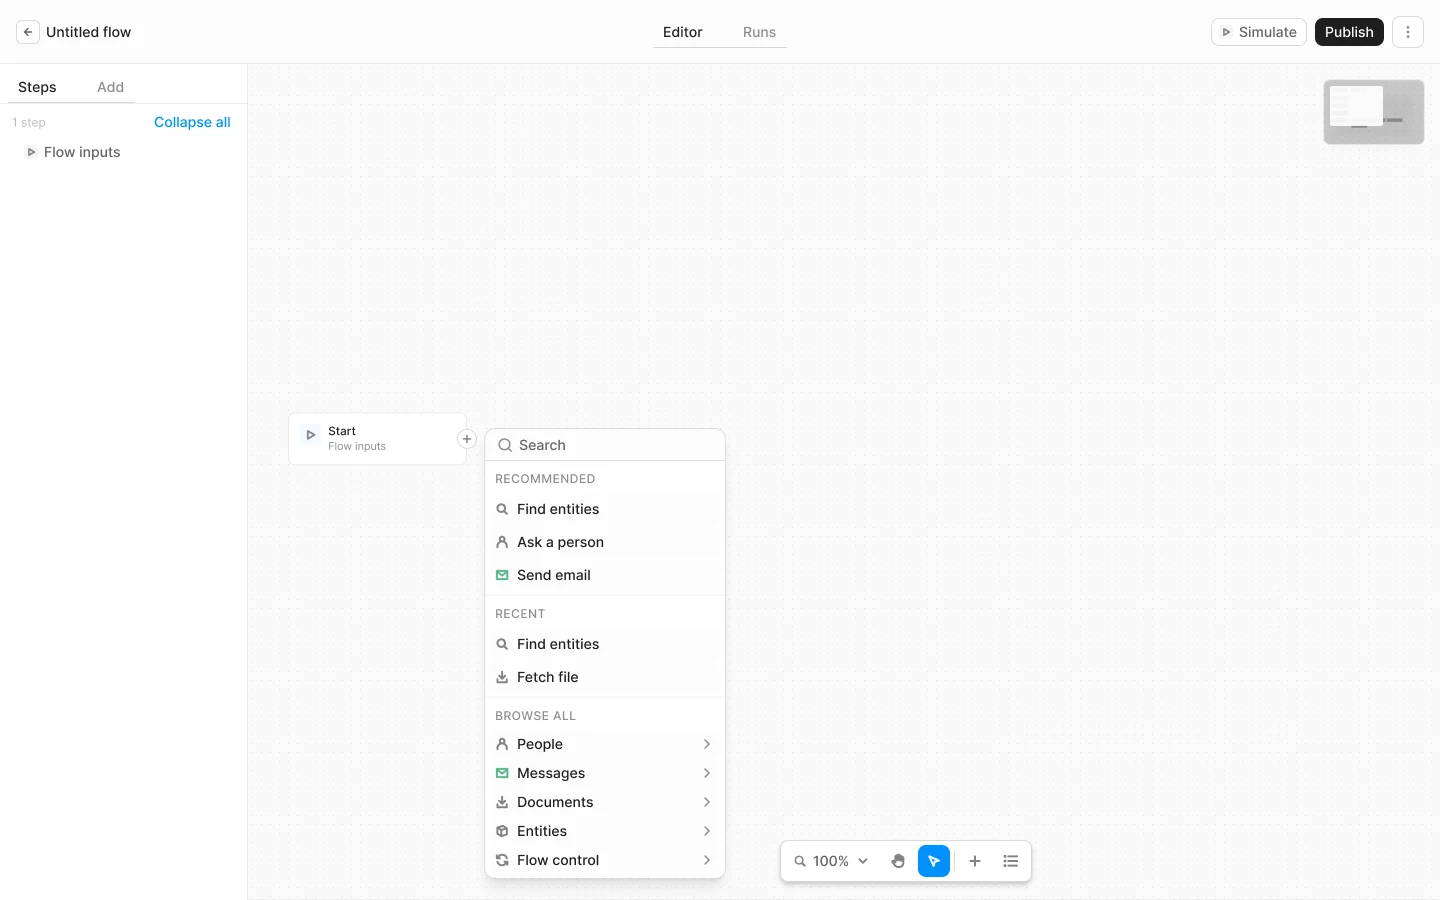
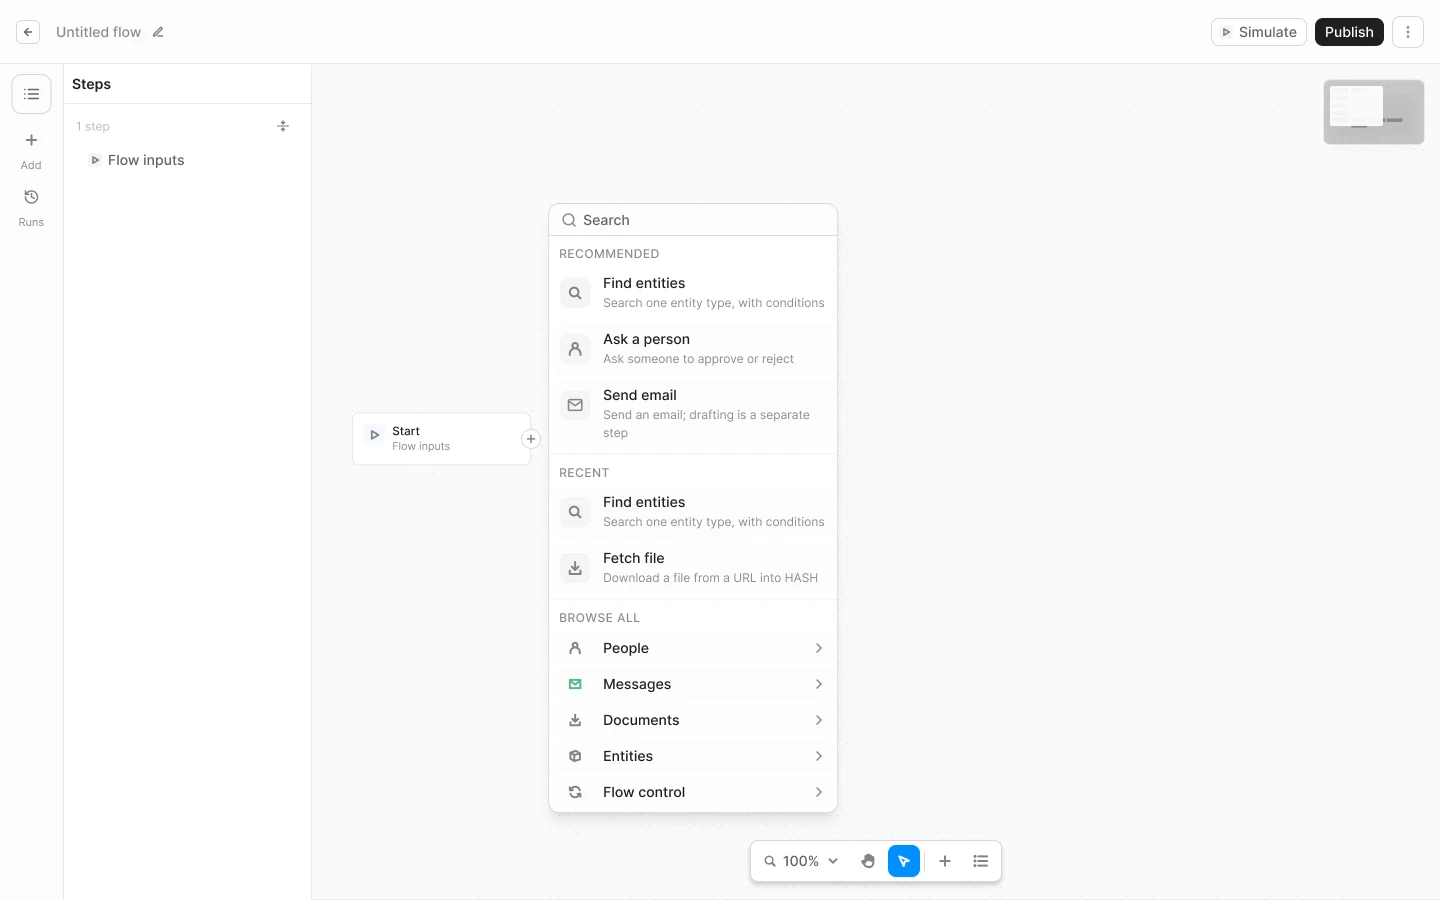
Flows editor: menu tiles hang from the title; J1.4 shifted; quiet empty menu
- A two-line menu row's tile now runs from the title's cap height to the
  description's baseline, centred in a 32 px column: 28 px, 1 px down,
  in value menus; 30 px, 2 px down, for add-step rows (14 px title and
  18 px description lines).
- J1.4's canvas starts 24 px further left, so its cards clear the panel.
- With nothing earlier that fits, a source menu's Earlier steps group
  shows only "Add <kind> input on Start", with no line saying why
  (J2.21). The For each list keeps its line, having no such action.
- Re-exports J0.6, J0.10, J0.11, J1.4, J1.7, J1.9, J1.15, J2.13, J2.16,
  J2.21, J2.31, J2.35, J2.44 and J2.46 (J1.16 was unchanged).

diff --git a/libs/@hashintel/petrinaut/flows-editor-prototype/src/menu-rows.tsx b/libs/@hashintel/petrinaut/flows-editor-prototype/src/menu-rows.tsx
@@ -6,7 +6,7 @@
  * The rows stay DS Menu items (keyboard, submenus, highlight) and carry this content as their `text`.
  */
 import { Icon, type IconName, type ItemOrGroup, type MenuItem } from "@hashintel/ds-components";
-import { css } from "@hashintel/ds-helpers/css";
+import { css, cva } from "@hashintel/ds-helpers/css";
 
 /** A row with a second line: 8 px above and below, 6 px in; a one-line row: 6 px all round; 4 px between rows. */
 export const tiledRowsStyle = css({
@@ -40,6 +40,8 @@ const rowStyle = css({
   gap: "3",
   minWidth: "[0]",
   width: "[100%]",
+  // A two-line row hangs from the top: the tile starts at the title's cap height, as Figma draws it (3 Nov).
+  "&[data-menu-row=two]": { alignItems: "flex-start" },
 });
 
 /** The 32 px slot of a one-line row: the 14 px icon centred, or nothing (Any). */
@@ -54,18 +56,35 @@ const slotStyle = css({
   "& svg": { width: "[14px]", height: "[14px]", "--icon-size": "14px" },
 });
 
-/** The 32 px tile: 8 px corners, the step-tile grey, a 16 px icon. */
-const tileStyle = css({
-  display: "inline-flex",
-  alignItems: "center",
+/** A two-line row's 32 px column, so its text lines up with the one-line rows; the tile is centred in it. */
+const tileColumnStyle = css({
+  display: "flex",
   justifyContent: "center",
   flexShrink: 0,
   width: "[32px]",
-  height: "[32px]",
-  borderRadius: "lg",
-  backgroundColor: "neutral.a25",
-  color: "neutral.fg.muted",
-  "& svg": { width: "[16px]", height: "[16px]", "--icon-size": "16px" },
+});
+
+/**
+ * The tile runs from the title's cap height to the description's baseline (Figma, 3 Nov): 28 px, 1 px down, in a
+ * value menu (12 px title line, 16 px description line); 30 px, 2 px down, for a step (14 px and 18 px lines).
+ * 8 px corners, the step-tile grey, a 16 px icon.
+ */
+const tileStyle = cva({
+  base: {
+    display: "inline-flex",
+    alignItems: "center",
+    justifyContent: "center",
+    borderRadius: "lg",
+    backgroundColor: "neutral.a25",
+    color: "neutral.fg.muted",
+    "& svg": { width: "[16px]", height: "[16px]", "--icon-size": "16px" },
+  },
+  variants: {
+    lines: {
+      value: { width: "[28px]", height: "[28px]", marginTop: "[1px]" },
+      step: { width: "[30px]", height: "[30px]", marginTop: "[2px]" },
+    },
+  },
 });
 
 const textStyle = css({
@@ -88,48 +107,73 @@ const titleStyle = css({
   color: "neutral.fg.heading",
 });
 
-/** In a two-line row Figma sets the title on a 12 px line, so title, 4 px and description fill the 32 px tile. */
-const twoLineTitleStyle = css({
-  ...ellipsis,
-  textStyle: "sm",
-  lineHeight: "[12px]",
-  paddingY: "[1px]",
-  marginY: "[-1px]",
-  color: "neutral.fg.heading",
+/** A two-line row's title: a 12 px line in a value menu (with 1 px of room for the glyphs), 14 px for a step. */
+const twoLineTitleStyle = cva({
+  base: {
+    ...ellipsis,
+    textStyle: "sm",
+    color: "neutral.fg.heading",
+  },
+  variants: {
+    lines: {
+      value: { lineHeight: "[12px]", paddingY: "[1px]", marginY: "[-1px]" },
+      step: { lineHeight: "[14px]" },
+    },
+  },
 });
 
-/** A long line wraps, as Figma draws Send email's (J0.10); the tile stays centred on the row. */
-const descriptionStyle = css({
-  whiteSpace: "normal",
-  textStyle: "xs",
-  lineHeight: "[16px]",
-  // Figma sets the line with no tracking; the DS xs style's 0.12 px clips the longest step line.
-  letterSpacing: "[0]",
-  fontWeight: "normal",
-  color: "neutral.fg.subtle",
+/** A long line wraps, as Figma draws Send email's (J0.10); the tile stays at the top. */
+const descriptionStyle = cva({
+  base: {
+    whiteSpace: "normal",
+    textStyle: "xs",
+    // Figma sets the line with no tracking; the DS xs style's 0.12 px clips the longest step line.
+    letterSpacing: "[0]",
+    fontWeight: "normal",
+    color: "neutral.fg.subtle",
+  },
+  variants: {
+    lines: {
+      value: { lineHeight: "[16px]" },
+      step: { lineHeight: "[18px]" },
+    },
+  },
 });
+
+/** How a two-line row sets its lines: a value menu's (12 / 16 px) or a step picker's (14 / 18 px). */
+export type RowLines = "value" | "step";
 
 export const MenuRow = ({
   icon,
   title,
   description,
+  lines = "value",
 }: {
   icon?: IconName | React.ReactElement;
   title: React.ReactNode;
   description?: React.ReactNode;
+  lines?: RowLines;
 }) => {
   const twoLine = description !== undefined && description !== null && description !== "";
   const glyph = typeof icon === "string" ? <Icon name={icon} size="sm" /> : icon;
   return (
     <span className={rowStyle} data-menu-row={twoLine ? "two" : "one"}>
-      <span className={twoLine ? tileStyle : slotStyle} aria-hidden="true">
-        {glyph}
-      </span>
+      {twoLine ? (
+        <span className={tileColumnStyle} aria-hidden="true">
+          <span className={tileStyle({ lines })}>{glyph}</span>
+        </span>
+      ) : (
+        <span className={slotStyle} aria-hidden="true">
+          {glyph}
+        </span>
+      )}
       <span className={textStyle}>
-        <span className={twoLine ? twoLineTitleStyle : titleStyle}>
+        <span className={twoLine ? twoLineTitleStyle({ lines }) : titleStyle}>
           {title}
         </span>
-        {twoLine ? <span className={descriptionStyle}>{description}</span> : null}
+        {twoLine ? (
+          <span className={descriptionStyle({ lines })}>{description}</span>
+        ) : null}
       </span>
     </span>
   );
@@ -152,13 +196,19 @@ const hasDescription = (item: MenuItem) =>
  */
 export const tileMenu = (
   entries: Array<ItemOrGroup<TiledItem>>,
+  lines: RowLines = "value",
 ): Array<ItemOrGroup<MenuItem>> => {
   const rows = entries.flatMap((entry) => (isGroup(entry) ? entry.items : [entry]));
   const tiled = rows.some(hasDescription);
   const convert = (item: TiledItem): MenuItem => {
     const { glyph, ...rest } = item;
     const subItems = rest.subItems
-      ? { subItems: tileMenu(rest.subItems as Array<ItemOrGroup<TiledItem>>) }
+      ? {
+          subItems: tileMenu(
+            rest.subItems as Array<ItemOrGroup<TiledItem>>,
+            lines,
+          ),
+        }
       : {};
     if (!tiled) {
       return { ...rest, ...subItems } as MenuItem;
@@ -168,7 +218,12 @@ export const tileMenu = (
       ...subItems,
       id: rest.id ?? (typeof rest.text === "string" ? rest.text : undefined),
       text: (
-        <MenuRow icon={glyph ?? rest.icon} title={rest.text} description={rest.description} />
+        <MenuRow
+          icon={glyph ?? rest.icon}
+          title={rest.text}
+          description={rest.description}
+          lines={lines}
+        />
       ),
       icon: undefined,
       description: undefined,

diff --git a/libs/@hashintel/petrinaut/flows-editor-prototype/src/source-menu.tsx b/libs/@hashintel/petrinaut/flows-editor-prototype/src/source-menu.tsx
@@ -594,51 +594,50 @@ export const SourceMenu = ({
           },
         ]
       : []),
-    ...(fromSteps && (earlier.length > 0 || !searching)
-      ? [
-          {
-            id: "Earlier steps",
-            label: "Earlier steps",
-            items:
-              earlier.length > 0
-                ? earlier
-                : [
-                    {
-                      id: "none:earlier",
-                      text: `No earlier step gives ${phrase}`,
-                      disabled: true,
-                    },
-                  ],
-          },
-        ]
-      : []),
+    // With nothing earlier that fits, Earlier steps offers only the way to add one on Start, with no line saying
+    // why (Figma J2.21, 3 Nov). The For each list has no such action, so it keeps its line.
+    ...(fromSteps && earlier.length > 0
+      ? [{ id: "Earlier steps", label: "Earlier steps", items: earlier }]
+      : fromSteps && !searching && listsOnly
+        ? [
+            {
+              id: "Earlier steps",
+              label: "Earlier steps",
+              items: [
+                {
+                  id: "none:earlier",
+                  text: `No earlier step gives ${phrase}`,
+                  disabled: true,
+                },
+              ],
+            },
+          ]
+        : fromSteps && !searching && flowInputs.length === 0
+          ? [
+              {
+                id: "Earlier steps",
+                label: "Earlier steps",
+                items: [
+                  {
+                    id: "add-flow-input",
+                    text: input.array
+                      ? "Add a list input on Start"
+                      : `Add ${phrase} input on Start`,
+                    icon: "plus" as const,
+                    onPick: goToStart,
+                  },
+                ],
+              },
+            ]
+          : []),
     ...(thisItem.length > 0
       ? [{ id: "This item", label: "This item", items: thisItem }]
       : []),
-    ...(fromSteps && !listsOnly && (flowInputs.length > 0 || !searching)
-      ? [
-          {
-            id: "Flow inputs",
-            label: "Flow inputs",
-            items:
-              flowInputs.length > 0
-                ? flowInputs
-                : [
-                    {
-                      id: "none:flow-input",
-                      text: `No flow input is ${phrase}`,
-                      disabled: true,
-                    },
-                    {
-                      id: "add-flow-input",
-                      text: "Add flow input on Start",
-                      onPick: goToStart,
-                    },
-                  ],
-          },
-        ]
+    ...(fromSteps && !listsOnly && flowInputs.length > 0
+      ? [{ id: "Flow inputs", label: "Flow inputs", items: flowInputs }]
       : []),
-    ...(nothingFits
+    // A search that finds nothing says so; with no search there is always the Start action above.
+    ...(nothingFits && (searching || !fromSteps)
       ? [
           {
             id: "nothing",

diff --git a/libs/@hashintel/petrinaut/flows-editor-prototype/src/screen-builds.ts b/libs/@hashintel/petrinaut/flows-editor-prototype/src/screen-builds.ts
@@ -156,9 +156,9 @@ const typeFromStart = (picked: boolean) => {
   };
 };
 
-/** J1.4's frame draws its cards at 90% and labels that 100%. */
+/** J1.4's frame draws its cards at 90% and labels that 100%; Start 16 px into the canvas, so they clear the panel. */
 const ninetyPercent: Partial<EditorUi> = {
-  viewport: { left: 40, top: 346, zoom: 0.9 },
+  viewport: { left: 16, top: 346, zoom: 0.9 },
   zoomBase: 0.9,
 };
 

diff --git a/libs/@hashintel/petrinaut/flows-editor-prototype/src/add-node-picker.tsx b/libs/@hashintel/petrinaut/flows-editor-prototype/src/add-node-picker.tsx
@@ -326,7 +326,7 @@ export const AddNodePicker = ({
           focusOnOpen
         />
       }
-      items={tileMenu(items)}
+      items={tileMenu(items, "step")}
     />
   );
 };
